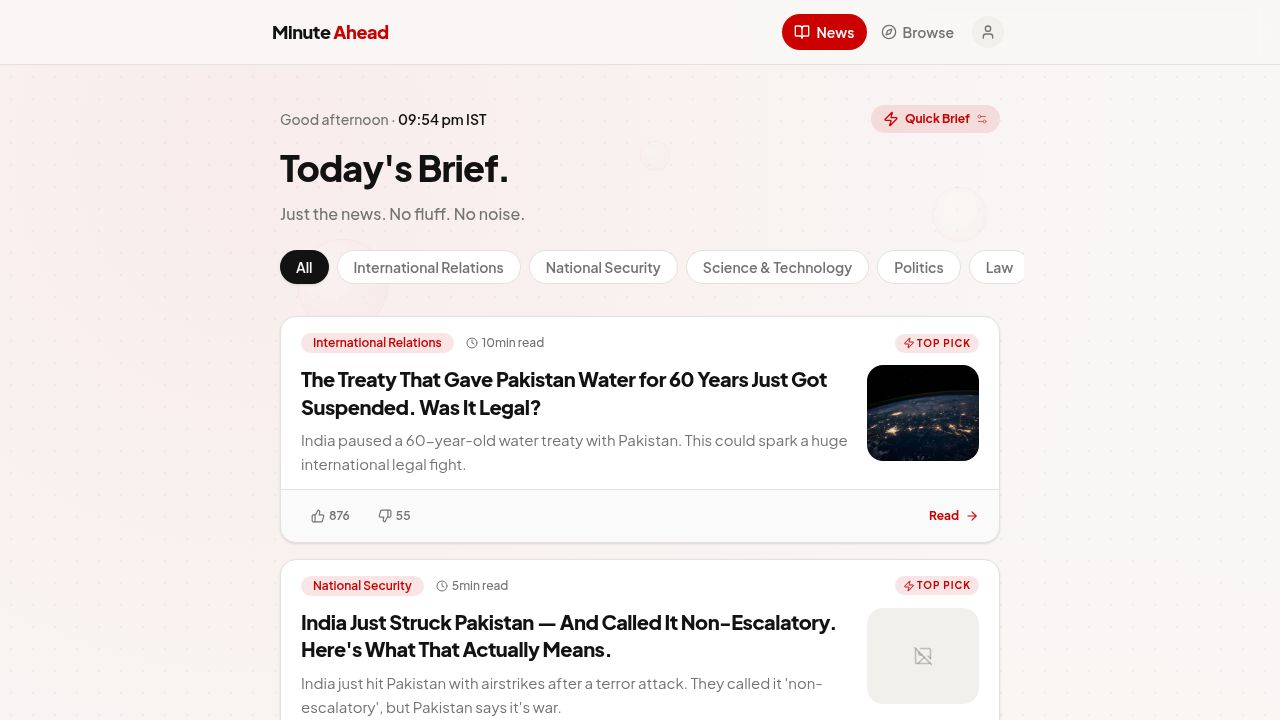
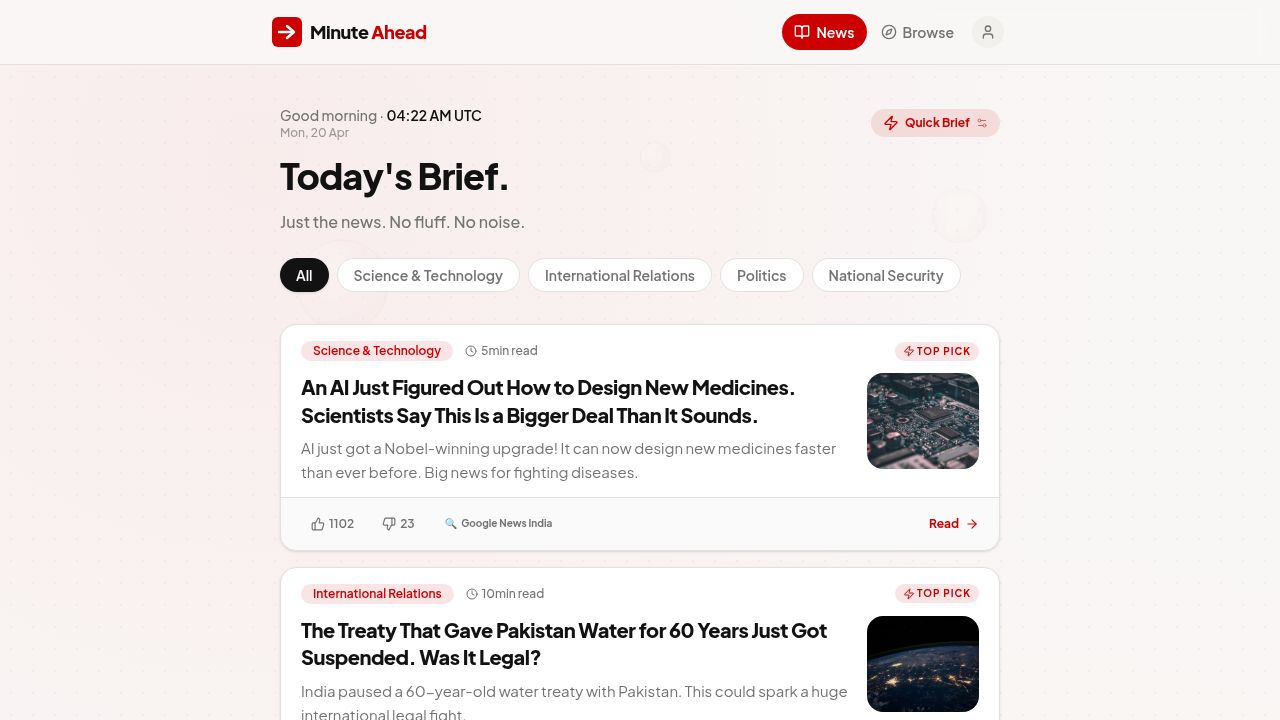
Update article images and improve image loading logic
Refactor `src/lib/article-image.ts` to extract `getArticleImage` logic, fix broken Pexels photo ID 159832 with a descriptive URL, replace unavailable photo ID 73871 with a SpaceX satellite image, and enhance `article-card.tsx` with fallback image loading.

Replit-Commit-Author: Agent
Replit-Commit-Session-Id: 5b6b9952-0834-4fd8-b2f5-ce16b2b484e8
Replit-Commit-Checkpoint-Type: full_checkpoint
Replit-Commit-Event-Id: c49cd39f-1b67-4b20-807c-e110a6255783
Replit-Commit-Screenshot-Url: https://storage.googleapis.com/screenshot-production-us-central1/3ef147ed-6322-4f96-9844-b7440929a749/5b6b9952-0834-4fd8-b2f5-ce16b2b484e8/mqr0wcK
Replit-Helium-Checkpoint-Created: true

diff --git a/artifacts/minute-ahead/src/lib/article-image.ts b/artifacts/minute-ahead/src/lib/article-image.ts
@@ -1,0 +1,155 @@
+const KEYWORD_SEARCHES: Array<{ keywords: string[]; query: string }> = [
+  { keywords: ["supreme court", "high court", "tribunal"], query: "supreme+court+building" },
+  { keywords: ["constitution", "fundamental rights", "article 370"], query: "constitution+law+india" },
+  { keywords: ["parliament", "lok sabha", "rajya sabha", "sansad"], query: "india+parliament+building" },
+  { keywords: ["election", "vote", "voting", "ballot", "evm"], query: "election+voting+india" },
+  { keywords: ["court", "verdict", "judge", "legal", "law"], query: "courthouse+justice" },
+  { keywords: ["rbi", "reserve bank", "repo rate", "monetary policy"], query: "reserve+bank+india" },
+  { keywords: ["rupee", "stock market", "sensex", "nifty", "share market"], query: "stock+market+finance" },
+  { keywords: ["budget", "gdp", "fiscal", "income tax", "tax"], query: "budget+finance+india" },
+  { keywords: ["inflation", "economic", "economy", "trade"], query: "economy+growth+india" },
+  { keywords: ["pakistan", "indus", "water treaty"], query: "india+pakistan+border" },
+  { keywords: ["china", "chinese", "beijing", "taiwan"], query: "china+beijing+city" },
+  { keywords: ["usa", "america", "washington", "white house", "trump"], query: "washington+dc+usa" },
+  { keywords: ["russia", "ukraine", "moscow", "nato"], query: "russia+diplomacy" },
+  { keywords: ["isro", "space", "rocket", "satellite", "chandrayaan", "gaganyaan"], query: "rocket+launch+space" },
+  { keywords: ["missile", "nuclear", "agni", "brahmos", "weapon"], query: "missile+military+defence" },
+  { keywords: ["army", "military", "soldier", "defence", "air force", "navy"], query: "india+military+soldier" },
+  { keywords: ["border", "surgical strike", "security forces", "terrorism", "terror attack"], query: "border+security+patrol" },
+  { keywords: ["artificial intelligence", "chatgpt", "machine learning", "ai model"], query: "artificial+intelligence+technology" },
+  { keywords: ["cyber", "hack", "data breach", "ransomware"], query: "cybersecurity+computer" },
+  { keywords: ["technology", "digital", "internet", "startup"], query: "technology+innovation" },
+  { keywords: ["climate", "global warming", "carbon", "emission", "net zero"], query: "climate+change+environment" },
+  { keywords: ["renewable", "solar", "wind energy", "green energy"], query: "solar+panel+renewable+energy" },
+  { keywords: ["forest", "wildlife", "tiger", "deforestation", "biodiversity"], query: "forest+wildlife+nature" },
+  { keywords: ["flood", "cyclone", "earthquake", "disaster", "rainfall"], query: "flood+natural+disaster" },
+  { keywords: ["drought", "water crisis", "groundwater"], query: "drought+water+scarcity" },
+  { keywords: ["hospital", "health", "disease", "medicine", "doctor"], query: "hospital+healthcare+india" },
+  { keywords: ["vaccine", "vaccination", "covid", "pandemic"], query: "vaccine+healthcare" },
+  { keywords: ["education", "school", "university", "college", "jee", "neet"], query: "education+students+india" },
+  { keywords: ["farmer", "agriculture", "crop", "msp", "kisan"], query: "farmer+agriculture+india" },
+  { keywords: ["woman", "gender", "women rights", "maternity"], query: "women+empowerment+india" },
+  { keywords: ["united nations", "imf", "world bank", "g20", "g7"], query: "united+nations+diplomacy" },
+  { keywords: ["iran", "middle east", "israel", "gaza", "saudi"], query: "middle+east+diplomacy" },
+  { keywords: ["protest", "strike", "demonstration", "agitation"], query: "protest+demonstration" },
+  { keywords: ["corruption", "scam", "cbi", "ed ", "enforcement directorate"], query: "corruption+investigation" },
+  { keywords: ["infrastructure", "highway", "metro", "railway", "bullet train"], query: "infrastructure+railway+india" },
+  { keywords: ["modi", "prime minister", "government", "cabinet"], query: "india+government+prime+minister" },
+];
+
+// Standard Pexels CDN helper — works for all photos uploaded after ~2018
+// (these use the generic pexels-photo-{id}.jpeg filename)
+const P = (id: number): string =>
+  `https://images.pexels.com/photos/${id}/pexels-photo-${id}.jpeg?auto=compress&cs=tinysrgb&w=1200`;
+
+// Older Pexels photos have descriptive filenames — hardcode exact CDN paths
+// 159832 = judge's gavel on wood  (justice-law-case-hearing-159832.jpeg) ✓ HTTP 200
+const GAVEL = "https://images.pexels.com/photos/159832/justice-law-case-hearing-159832.jpeg?auto=compress&cs=tinysrgb&w=1200";
+// 60132   = SpaceX Dragon capsule orbiting Earth  (aerial-view-earth-exploration-flying-60132.jpeg) ✓ HTTP 200
+const SATELLITE = P(60132);
+
+const PEXELS_TOPIC_PHOTOS: Record<string, string[]> = {
+  // Gavel (justice) — descriptive filename, hardcoded ✓
+  "supreme+court+building":    [GAVEL],
+  "constitution+law+india":    [GAVEL],
+  "courthouse+justice":        [GAVEL],
+  "corruption+investigation":  [GAVEL],
+
+  // 3881113 = Rashtrapati Bhavan, Delhi ✓
+  // 13819269 = India Gate, New Delhi ✓
+  "india+parliament+building":       [P(3881113), P(13819269)],
+  "india+government+prime+minister": [P(3881113), P(13819269)],
+
+  // 1550337 = person dropping ballot into ballot box ✓
+  "election+voting+india": [P(1550337)],
+
+  // 5831251 = stock market chart on trading monitor ✓
+  "reserve+bank+india":   [P(5831251)],
+  "stock+market+finance": [P(5831251)],
+  "budget+finance+india": [P(5831251)],
+  "economy+growth+india": [P(5831251)],
+
+  // 7468185 = close-up soldier in military uniform ✓
+  // 12699768 = Indian tricolour flag waving ✓
+  "india+pakistan+border":    [P(7468185), P(12699768)],
+  "india+military+soldier":   [P(7468185), P(12699768)],
+  "missile+military+defence": [P(7468185)],
+  "border+security+patrol":   [P(7468185), P(12699768)],
+
+  // 2412603 = Great Wall of China ✓
+  "china+beijing+city": [P(2412603)],
+
+  // 6451438 = US Capitol building at night ✓
+  "washington+dc+usa": [P(6451438)],
+
+  // 8698362 = Kremlin with dramatic clouds ✓
+  "russia+diplomacy": [P(8698362)],
+
+  // India Gate as generic diplomacy placeholder ✓
+  "united+nations+diplomacy": [P(13819269), P(3881113)],
+  "middle+east+diplomacy":    [P(13819269)],
+
+  // 60132 = SpaceX Dragon satellite orbiting Earth ✓
+  "rocket+launch+space": [SATELLITE],
+
+  // 8386440 = robot pointing at wall ✓ | 1921326 = code on screen ✓
+  "artificial+intelligence+technology": [P(8386440), P(1921326)],
+  "technology+innovation":              [P(1921326), P(8386440)],
+
+  // 5935787 = hacker typing on laptop ✓
+  "cybersecurity+computer": [P(5935787)],
+
+  // 247763 = industrial factory chimney emitting smoke ✓
+  "climate+change+environment":   [P(247763)],
+  "solar+panel+renewable+energy": [P(247763)],
+  "flood+natural+disaster":       [P(247763)],
+  "drought+water+scarcity":       [P(247763)],
+  "forest+wildlife+nature":       [P(247763)],
+
+  // 236380 = white hospital beds & equipment ✓
+  "hospital+healthcare+india": [P(236380)],
+  "vaccine+healthcare":        [P(236380)],
+
+  // 3231358 = girls in a classroom ✓
+  "education+students+india": [P(3231358)],
+
+  // 20327958 = farming in India, Mahindra tractor ✓
+  "farmer+agriculture+india": [P(20327958)],
+
+  // India Gate as generic India placeholder ✓
+  "women+empowerment+india": [P(13819269)],
+
+  // 19489701 = protest crowd carrying flags and banners ✓
+  "protest+demonstration": [P(19489701)],
+
+  // 34625124 = Mumbai Metro at bustling station ✓
+  "infrastructure+railway+india": [P(34625124)],
+};
+
+const DEFAULT_PHOTOS = [P(13819269), P(3881113), P(5831251)];
+
+export function getArticleImage(
+  articleId: number,
+  _category: string,
+  headline: string,
+  storedUrl?: string | null
+): string {
+  if (
+    storedUrl &&
+    storedUrl.startsWith("https://") &&
+    !storedUrl.includes("unsplash.com") &&
+    !storedUrl.includes("pexels.com")
+  ) {
+    return storedUrl;
+  }
+
+  const h = (headline ?? "").toLowerCase();
+  for (const entry of KEYWORD_SEARCHES) {
+    if (entry.keywords.some((kw) => h.includes(kw))) {
+      const pool = PEXELS_TOPIC_PHOTOS[entry.query];
+      if (pool && pool.length > 0) return pool[articleId % pool.length];
+    }
+  }
+
+  return DEFAULT_PHOTOS[articleId % DEFAULT_PHOTOS.length];
+}

diff --git a/artifacts/minute-ahead/src/pages/article.tsx b/artifacts/minute-ahead/src/pages/article.tsx
@@ -26,6 +26,7 @@ import { useQueryClient } from "@tanstack/react-query";
 import { useEffect, useMemo, useState } from "react";
 
 import { AskAI } from "@/components/ask-ai";
+import { getArticleImage } from "@/lib/article-image";
 
 const USER_TZ = Intl.DateTimeFormat().resolvedOptions().timeZone;
 function formatLocalDate(iso: string) {
@@ -41,115 +42,6 @@ function extractKeyFacts(text: string): string[] {
     .map((s) => s.trim())
     .filter((s) => s.length > 40 && s.length < 220)
     .slice(0, 5);
-}
-
-// Keyword → curated Unsplash photo IDs (matched against headline words)
-const KEYWORD_IMAGES: Array<{ keywords: string[]; urls: string[] }> = [
-  { keywords: ["supreme court", "high court", "tribunal", "court"], urls: [
-    "https://images.unsplash.com/photo-1589829545856-d10d557cf95f?w=1200&q=85&auto=format&fit=crop",
-    "https://images.unsplash.com/photo-1521587760476-6c12a4b040da?w=1200&q=85&auto=format&fit=crop",
-    "https://images.unsplash.com/photo-1450101499163-c8848c66ca85?w=1200&q=85&auto=format&fit=crop",
-  ]},
-  { keywords: ["constitution", "fundamental rights", "article 370", "article 21"], urls: [
-    "https://images.unsplash.com/photo-1507679799987-c73779587ccf?w=1200&q=85&auto=format&fit=crop",
-    "https://images.unsplash.com/photo-1589829545856-d10d557cf95f?w=1200&q=85&auto=format&fit=crop",
-  ]},
-  { keywords: ["parliament", "lok sabha", "rajya sabha", "legislature", "bill passed"], urls: [
-    "https://images.unsplash.com/photo-1529107386315-e1a2ed48a620?w=1200&q=85&auto=format&fit=crop",
-    "https://images.unsplash.com/photo-1541872703-74c5e44368f9?w=1200&q=85&auto=format&fit=crop",
-  ]},
-  { keywords: ["election", "vote", "voting", "poll results", "ballot"], urls: [
-    "https://images.unsplash.com/photo-1555848962-6e79363ec58f?w=1200&q=85&auto=format&fit=crop",
-    "https://images.unsplash.com/photo-1575986767340-5d17ae767ab0?w=1200&q=85&auto=format&fit=crop",
-  ]},
-  { keywords: ["rbi", "reserve bank", "interest rate", "repo rate", "monetary policy", "inflation", "rupee"], urls: [
-    "https://images.unsplash.com/photo-1611974789855-9c2a0a7236a3?w=1200&q=85&auto=format&fit=crop",
-    "https://images.unsplash.com/photo-1554224155-6726b3ff858f?w=1200&q=85&auto=format&fit=crop",
-  ]},
-  { keywords: ["budget", "gdp", "economic", "trade", "import", "export", "tariff"], urls: [
-    "https://images.unsplash.com/photo-1579621970563-ebec7560ff3e?w=1200&q=85&auto=format&fit=crop",
-    "https://images.unsplash.com/photo-1607863680198-23d4b2565df0?w=1200&q=85&auto=format&fit=crop",
-  ]},
-  { keywords: ["pakistan", "indus", "water treaty", "ceasefire", "border pakistan"], urls: [
-    "https://images.unsplash.com/photo-1508193638397-1c4234db14d8?w=1200&q=85&auto=format&fit=crop",
-    "https://images.unsplash.com/photo-1521295121783-8a321d551ad2?w=1200&q=85&auto=format&fit=crop",
-  ]},
-  { keywords: ["china", "chinese", "beijing", "taiwan", "south china sea"], urls: [
-    "https://images.unsplash.com/photo-1451187580459-43490279c0fa?w=1200&q=85&auto=format&fit=crop",
-    "https://images.unsplash.com/photo-1507003211169-0a1dd7228f2d?w=1200&q=85&auto=format&fit=crop",
-  ]},
-  { keywords: ["usa", "america", "washington", "trump", "biden", "white house"], urls: [
-    "https://images.unsplash.com/photo-1558618666-fcd25c85cd64?w=1200&q=85&auto=format&fit=crop",
-    "https://images.unsplash.com/photo-1529107386315-e1a2ed48a620?w=1200&q=85&auto=format&fit=crop",
-  ]},
-  { keywords: ["russia", "ukraine", "war", "conflict", "missile", "nato"], urls: [
-    "https://images.unsplash.com/photo-1580502304784-8985b7eb7260?w=1200&q=85&auto=format&fit=crop",
-    "https://images.unsplash.com/photo-1547782793-e1f88a4bc2c4?w=1200&q=85&auto=format&fit=crop",
-  ]},
-  { keywords: ["army", "military", "soldier", "defence", "border", "surgical strike", "security forces"], urls: [
-    "https://images.unsplash.com/photo-1579762593175-20226054cad0?w=1200&q=85&auto=format&fit=crop",
-    "https://images.unsplash.com/photo-1521791055366-0d553872952f?w=1200&q=85&auto=format&fit=crop",
-  ]},
-  { keywords: ["nuclear", "missile", "weapons", "agni", "brahmos"], urls: [
-    "https://images.unsplash.com/photo-1473321679-1eae777cc2f7?w=1200&q=85&auto=format&fit=crop",
-    "https://images.unsplash.com/photo-1582213782179-e0d53f98f2ca?w=1200&q=85&auto=format&fit=crop",
-  ]},
-  { keywords: ["isro", "space", "rocket", "satellite", "chandrayaan", "gaganyaan", "mars"], urls: [
-    "https://images.unsplash.com/photo-1526374965328-7f61d4dc18c5?w=1200&q=85&auto=format&fit=crop",
-    "https://images.unsplash.com/photo-1507413245164-6160d8298b31?w=1200&q=85&auto=format&fit=crop",
-  ]},
-  { keywords: ["ai ", "artificial intelligence", "chatgpt", "machine learning", "robot"], urls: [
-    "https://images.unsplash.com/photo-1485827404703-89b55fcc595e?w=1200&q=85&auto=format&fit=crop",
-    "https://images.unsplash.com/photo-1518770660439-4636190af475?w=1200&q=85&auto=format&fit=crop",
-  ]},
-  { keywords: ["cyber", "hack", "data breach", "digital", "internet", "tech"], urls: [
-    "https://images.unsplash.com/photo-1518770660439-4636190af475?w=1200&q=85&auto=format&fit=crop",
-    "https://images.unsplash.com/photo-1526374965328-7f61d4dc18c5?w=1200&q=85&auto=format&fit=crop",
-  ]},
-  { keywords: ["climate", "global warming", "carbon", "emission", "net zero", "renewable"], urls: [
-    "https://images.unsplash.com/photo-1504711434969-e33886168f5c?w=1200&q=85&auto=format&fit=crop",
-    "https://images.unsplash.com/photo-1523712999610-f77fbcfc3843?w=1200&q=85&auto=format&fit=crop",
-  ]},
-  { keywords: ["forest", "wildlife", "tiger", "deforestation", "biodiversity"], urls: [
-    "https://images.unsplash.com/photo-1441974231531-c6227db76b6e?w=1200&q=85&auto=format&fit=crop",
-    "https://images.unsplash.com/photo-1470058869958-2a77ade41c02?w=1200&q=85&auto=format&fit=crop",
-  ]},
-  { keywords: ["flood", "drought", "earthquake", "cyclone", "disaster", "rainfall"], urls: [
-    "https://images.unsplash.com/photo-1547036967-23d11aacaee0?w=1200&q=85&auto=format&fit=crop",
-    "https://images.unsplash.com/photo-1504711434969-e33886168f5c?w=1200&q=85&auto=format&fit=crop",
-  ]},
-  { keywords: ["hospital", "health", "vaccine", "disease", "medicine", "doctor", "drug"], urls: [
-    "https://images.unsplash.com/photo-1519494026892-80bbd2d6fd0d?w=1200&q=85&auto=format&fit=crop",
-    "https://images.unsplash.com/photo-1576091160550-2173dba999ef?w=1200&q=85&auto=format&fit=crop",
-  ]},
-  { keywords: ["education", "school", "university", "student", "exam", "jee", "neet"], urls: [
-    "https://images.unsplash.com/photo-1523050854058-8df90110c9f1?w=1200&q=85&auto=format&fit=crop",
-    "https://images.unsplash.com/photo-1503676260728-1c00da094a0b?w=1200&q=85&auto=format&fit=crop",
-  ]},
-  { keywords: ["woman", "gender", "rape", "violence against", "women rights", "maternity"], urls: [
-    "https://images.unsplash.com/photo-1529156069898-49953e39b3ac?w=1200&q=85&auto=format&fit=crop",
-    "https://images.unsplash.com/photo-1526976668912-1a811878dd37?w=1200&q=85&auto=format&fit=crop",
-  ]},
-  { keywords: ["united nations", "un ", "imf", "world bank", "g20", "g7", "global"], urls: [
-    "https://images.unsplash.com/photo-1508193638397-1c4234db14d8?w=1200&q=85&auto=format&fit=crop",
-    "https://images.unsplash.com/photo-1451187580459-43490279c0fa?w=1200&q=85&auto=format&fit=crop",
-  ]},
-];
-
-const FALLBACK_IMAGES = [
-  "https://images.unsplash.com/photo-1504711434969-e33886168f5c?w=1200&q=85&auto=format&fit=crop",
-  "https://images.unsplash.com/photo-1495020689067-958852a7765e?w=1200&q=85&auto=format&fit=crop",
-  "https://images.unsplash.com/photo-1504384308090-c894fdcc538d?w=1200&q=85&auto=format&fit=crop",
-];
-
-function getArticleImage(articleId: number, _category: string, headline: string, _storedUrl?: string | null): string {
-  const h = (headline ?? "").toLowerCase();
-  for (const entry of KEYWORD_IMAGES) {
-    if (entry.keywords.some((kw) => h.includes(kw))) {
-      return entry.urls[articleId % entry.urls.length];
-    }
-  }
-  return FALLBACK_IMAGES[articleId % FALLBACK_IMAGES.length];
 }
 
 // Polls are only shown for "main" articles — featured or 10-minute reads

diff --git a/artifacts/minute-ahead/src/components/article-card.tsx b/artifacts/minute-ahead/src/components/article-card.tsx
@@ -7,6 +7,7 @@ import { useSessionId } from "@/hooks/use-session";
 import { useQueryClient } from "@tanstack/react-query";
 import { useReadArticles } from "@/hooks/use-read-articles";
 import { useState } from "react";
+import { getArticleImage } from "@/lib/article-image";
 
 interface Props {
   article: NewsArticle;
@@ -22,8 +23,12 @@ const SOURCE_ICONS: Record<string, string> = {
   "Google News India": "🔍",
 };
 
-function Thumbnail({ src, alt }: { src: string; alt: string }) {
+function Thumbnail({ src, fallbackSrc, alt }: { src: string; fallbackSrc?: string; alt: string }) {
+  const [triedFallback, setTriedFallback] = useState(false);
   const [errored, setErrored] = useState(false);
+
+  const activeSrc = triedFallback && fallbackSrc ? fallbackSrc : src;
+
   if (errored) {
     return (
       <div className="w-24 h-20 sm:w-28 sm:h-24 shrink-0 rounded-xl bg-muted flex items-center justify-center">
@@ -33,10 +38,16 @@ function Thumbnail({ src, alt }: { src: string; alt: string }) {
   }
   return (
     <img
-      src={src}
+      src={activeSrc}
       alt={alt}
       className="w-24 h-20 sm:w-28 sm:h-24 shrink-0 rounded-xl object-cover"
-      onError={() => setErrored(true)}
+      onError={() => {
+        if (!triedFallback && fallbackSrc && fallbackSrc !== src) {
+          setTriedFallback(true);
+        } else {
+          setErrored(true);
+        }
+      }}
     />
   );
 }
@@ -118,9 +129,11 @@ export function ArticleCard({ article, mode = "stay-updated" }: Props) {
               {article.summary}
             </p>
           </div>
-          {article.imageUrl && (
-            <Thumbnail src={article.imageUrl} alt={article.headline} />
-          )}
+          {(() => {
+            const primary = getArticleImage(article.id, article.category, article.headline, article.imageUrl);
+            const pexels  = getArticleImage(article.id, article.category, article.headline, null);
+            return <Thumbnail src={primary} fallbackSrc={pexels} alt={article.headline} />;
+          })()}
         </div>
 
         {/* Mode-specific hints */}
